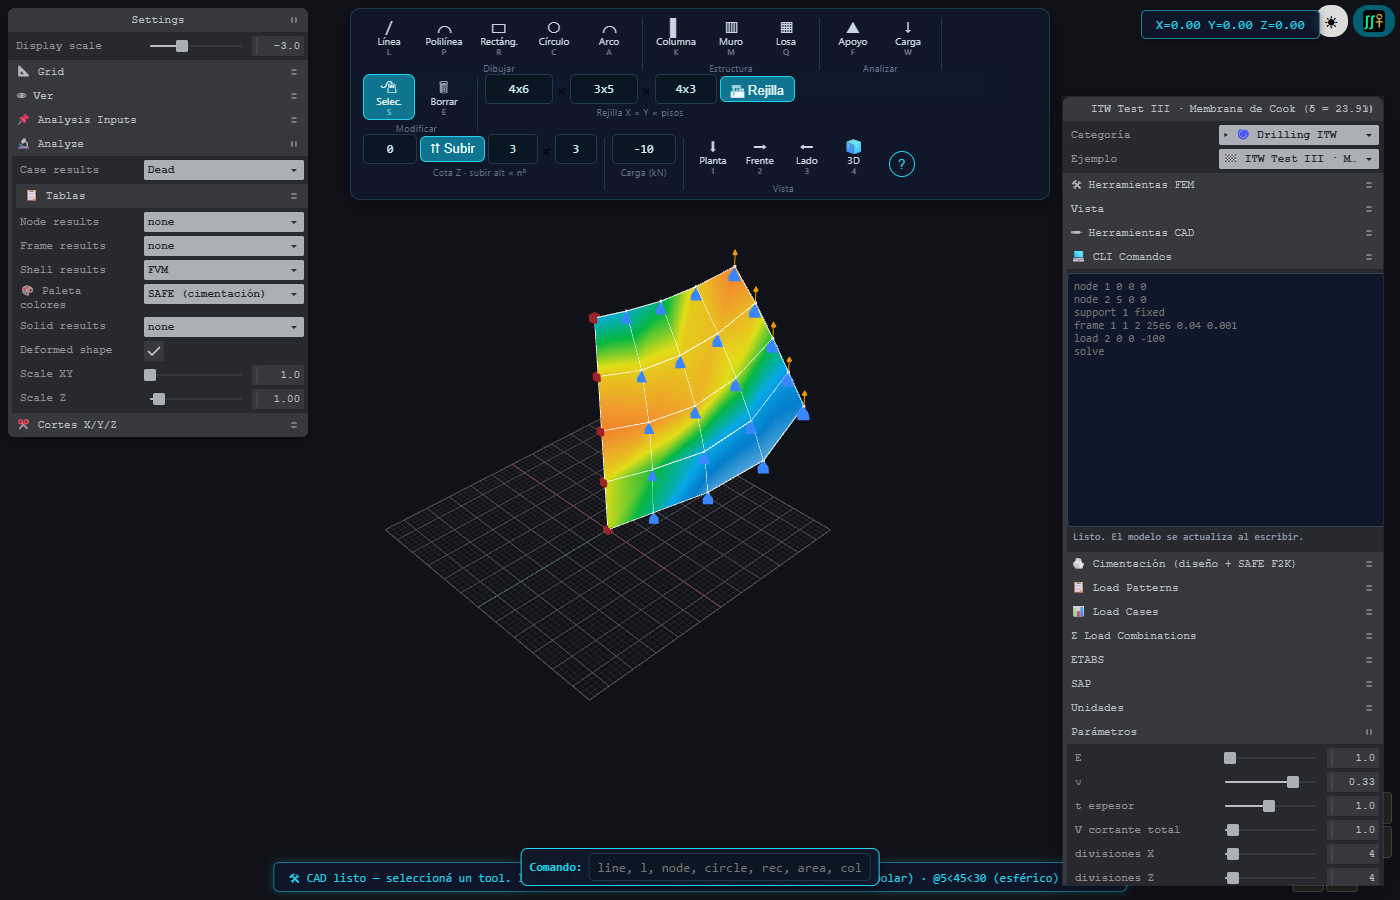
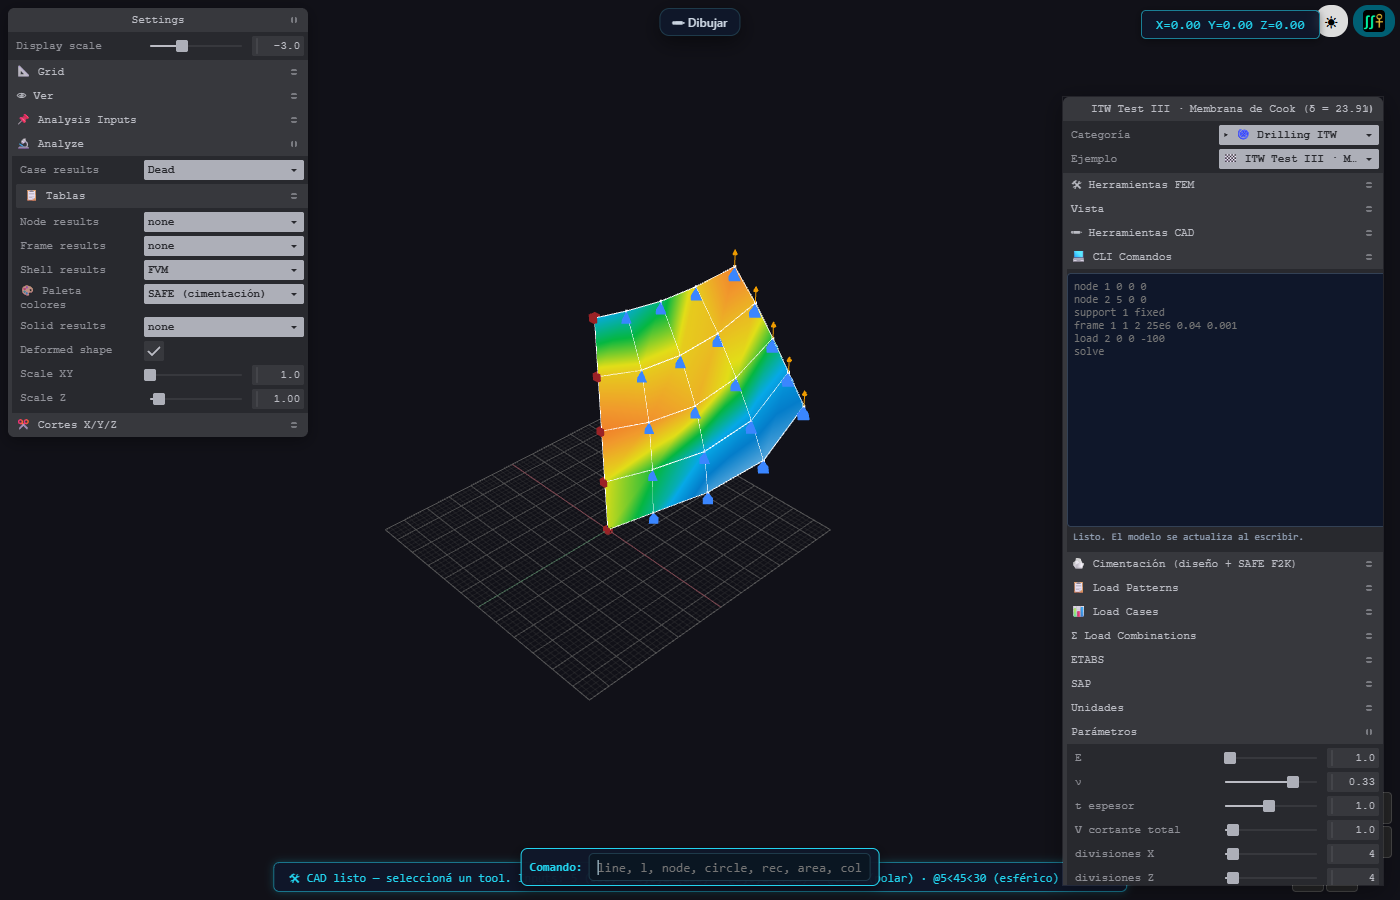
UI: el ribbon se pliega a un boton, y en ejemplos arranca plegado
Jorge: *"ese menu que esta arriba debe tener algo para minimizarlo y solo quede
un boton ya que me ocupa la pantalla, y en ejemplos preferible que quede
minimizado"*.

La barra ocupa dos filas y se come el tercio de arriba del lienzo. Esta bien
cuando se viene a DIBUJAR —es lo unico de la pantalla que dice que hacer— y
estorba cuando se viene a MIRAR un ejemplo resuelto, que es casi todo el
catalogo.

* Boton "▴" para plegar; plegada queda solo "✏ Dibujar" en el mismo sitio, asi
  que abrir y cerrar no mueve nada de lo que hay debajo.
* `Ctrl+\`` en los dos sentidos.
* El estado se recuerda en localStorage: el defecto lo pone el workspace, pero
  si el usuario ya eligio, MANDA EL.
* Defecto: PLEGADA si se entra por `?t=<ejemplo>`, ABIERTA en el lienzo en
  blanco (`new-blank`, `cad-draw`, `cad-editor`, `inicio`).

Y de paso: la guia "Como dibujar aqui" ya NO se abre sola con la barra plegada.
Es una tarjeta grande que tapaba el lienzo entero y con la barra plegada ni se
veia a que se referia — eso ya hizo dar por roto un ejemplo que estaba perfecto
(`guerra-ej1`: el PNG salia vacio y era la guia tapando el visor).

## Los 6 casos ITW, juntos en el selector

Jorge: *"solo estan 2 ejemplos y son 5"*. El arbol los parte en dos porque lo
manda el TIPO DE ELEMENTO —los 4 tests son membrana pura (Shells) y los 2 muros
llevan viga (Mixtos)— y las dos hojas se llaman igual, asi que el desplegable
truncaba el texto y entrando por una parecia que faltaban cuatro.
[…]

diff --git a/hekatan-ui/src/cad/getCadRibbon.ts b/hekatan-ui/src/cad/getCadRibbon.ts
@@ -45,6 +45,18 @@ export interface RibbonHooks {
   finish?: () => void;
   undo?: () => void;
   clear?: () => void;
+  /**
+   * Si la barra arranca PLEGADA (solo el botón «✏ Dibujar»).
+   *
+   * El workspace lo pone a `true` cuando lo cargado es un ejemplo ya resuelto:
+   * ahí se viene a MIRAR, y la barra —que ocupa dos filas— se come el tercio de
+   * arriba del lienzo. En el lienzo en blanco va a `false`, porque ahí es lo
+   * único de la pantalla que dice qué hacer.
+   *
+   * ⚠ Es solo el DEFECTO. Si el usuario ya plegó o desplegó alguna vez, manda
+   * su elección (guardada en `localStorage`).
+   */
+  plegadoPorDefecto?: boolean;
 }
 
 interface Herr {
@@ -517,6 +529,70 @@ export function addCadRibbon(host: HTMLElement, hooks: RibbonHooks): HTMLElement
   ].join(";") + ";";
   estado.textContent = "Teclea una letra o elige arriba — L línea · P polilínea · R rectángulo · K columna · G rejilla";
 
+  // ── PLEGAR el ribbon ──────────────────────────────────────────────────────
+  //
+  // Jorge: *"ese menu que esta arriba debe tener algo para minimizarlo y solo
+  // quede un boton ya que me ocupa la pantalla, y en ejemplos preferible que
+  // quede minimizado"*.
+  //
+  // La barra ocupa dos filas y se come el tercio de arriba del lienzo. Eso está
+  // bien cuando se viene a DIBUJAR —es lo único de la pantalla que dice qué
+  // hacer— y estorba cuando se viene a MIRAR un ejemplo ya resuelto, que es el
+  // caso de casi todo el catálogo.
+  //
+  // Así que: se pliega a un solo botón, y el estado se recuerda. El defecto lo
+  // decide `plegadoPorDefecto`, que el workspace pone a `true` cuando lo que se
+  // ha cargado es un ejemplo (ver `addCadRibbon(..., { plegadoPorDefecto })`).
+  const LS = "hekatan.ribbon.plegado";
+  const bPlegar = document.createElement("button");
+  bPlegar.type = "button";
+  bPlegar.title = "Plegar la barra (Ctrl+`)";
+  bPlegar.textContent = "▴";
+  bPlegar.style.cssText = "width:26px;height:26px;margin-left:4px;cursor:pointer;" +
+    "background:transparent;border:1px solid #475569;border-radius:6px;color:#94a3b8;" +
+    "font:600 13px inherit;align-self:center;";
+  barra.appendChild(bPlegar);
+
+  // El botón que queda cuando está plegada. Va en el MISMO sitio que la barra,
+  // para que abrir y cerrar no mueva nada de lo que hay debajo.
+  const bAbrir = document.createElement("button");
+  bAbrir.type = "button";
+  bAbrir.id = "hk-ribbon-abrir";
+  bAbrir.title = "Abrir la barra de dibujo (Ctrl+`)";
+  bAbrir.textContent = "✏ Dibujar";
+  bAbrir.style.cssText = [
+    "position:absolute", "top:8px", "left:50%", "transform:translateX(-50%)",
+    "z-index:60", "display:none", "cursor:pointer",
+    "padding:5px 12px", "border-radius:10px",
+    "background:rgba(15,23,42,.94)", "border:1px solid #1e3a4a",
+    "color:#cbd5e1", "font:600 12px system-ui,-apple-system,Segoe UI,sans-serif",
+    "box-shadow:0 6px 20px rgba(0,0,0,.45)", "backdrop-filter:blur(6px)",
+  ].join(";") + ";";
+
+  let plegado = false;
+  function plegar(v: boolean, recordar = true) {
+    plegado = v;
+    barra.style.display = v ? "none" : "flex";
+    bAbrir.style.display = v ? "block" : "none";
+    // La barra de estado y la guía sólo tienen sentido con la barra abierta:
+    // plegado no hay herramienta a la vista a la que se refieran.
+    estado.style.display = v ? "none" : "block";
+    if (v) verGuia(false);
+    if (recordar) { try { localStorage.setItem(LS, v ? "1" : "0"); } catch {} }
+  }
+  bPlegar.addEventListener("click", () => plegar(true));
+  bAbrir.addEventListener("click", () => plegar(false));
+  // Ctrl+` — el mismo atajo en los dos sentidos, que es como se espera de un
+  // panel que se pliega.
+  window.addEventListener("keydown", (e) => {
+    if (!e.ctrlKey || e.key !== "`") return;
+    const t = e.target as HTMLElement | null;
+    if (t && /^(INPUT|TEXTAREA)$/.test(t.tagName)) return;
+    e.preventDefault();
+    plegar(!plegado);
+  });
+
+
   // El motor selecciona DESPUES de procesar el clic, asi que se mira un
   // instante mas tarde. 120 ms basta y no se nota.
   host.addEventListener("click", (e) => {
@@ -528,13 +604,30 @@ export function addCadRibbon(host: HTMLElement, hooks: RibbonHooks): HTMLElement
 
   if (getComputedStyle(host).position === "static") host.style.position = "relative";
   host.appendChild(barra);
+  host.appendChild(bAbrir);
   host.appendChild(estado);
   host.appendChild(guia);
+
+  // El defecto lo manda quien monta (el workspace: plegada en ejemplos, abierta
+  // en el lienzo en blanco). Si el usuario ya eligió alguna vez, MANDA ÉL.
+  let inicial = hooks.plegadoPorDefecto ?? false;
+  try {
+    const g = localStorage.getItem(LS);
+    if (g !== null) inicial = g === "1";
+  } catch {}
+  plegar(inicial, false);
   // Se abre sola la PRIMERA vez y nunca mas: quien entra por primera vez no
   // sabe ni que existe la tecla ?, y quien ya la leyo no quiere volver a
   // cerrarla en cada carga.
+  //
+  // ⚠ Pero NO si la barra arranca plegada. La guia es una tarjeta grande que
+  // tapa el lienzo entero, y con la barra plegada ni siquiera se ve a que se
+  // refiere: se entra a mirar un ejemplo ya resuelto y lo primero que aparece
+  // es un panel de como dibujar, encima del modelo. Eso ya hizo dar por roto un
+  // ejemplo que estaba perfecto (`guerra-ej1`: el PNG salia vacio y era la guia
+  // tapando el visor).
   try {
-    if (!localStorage.getItem("hk_guia_vista")) {
+    if (!plegado && !localStorage.getItem("hk_guia_vista")) {
       verGuia(true);
       localStorage.setItem("hk_guia_vista", "1");
     }

diff --git a/examples/src/workspace/main.ts b/examples/src/workspace/main.ts
@@ -3011,6 +3011,13 @@ function buildParamsPane() {
   ];
   const ALL = "Todas";
   const ALL_BENCHMARKS = "🏁 Benchmarks · TODOS";   // pseudo-categoría que muestra los 12 benchmarks juntos
+  // Lo mismo para la familia ITW. Los seis casos del elemento con drilling son
+  // UNA cosa para quien los estudia, pero el árbol los parte en dos porque lo
+  // manda el TIPO DE ELEMENTO: los cuatro tests son membrana pura (Shells) y
+  // los dos muros llevan viga (Mixtos). Las dos hojas se llaman igual y el
+  // desplegable trunca el texto, así que entrando por una parecía que faltaban
+  // cuatro ejemplos. Esta pseudo-categoría los junta sin romper el árbol.
+  const ALL_ITW = "🌀 Drilling ITW · TODOS";
   // Mostrar las sub-categorías de Benchmarks con INDENTACIÓN visual (sub-folders):
   //   🏁 Benchmarks (TODOS)         ← header del grupo (todos los benchmarks juntos)
   //     ▸ 1⃣ Frames                 ← sub-folder
@@ -3053,6 +3060,8 @@ function buildParamsPane() {
   // Los benchmarks ya no son un cajón del árbol (están repartidos por tipo de
   // elemento), pero siguen siendo un filtro útil: se listan por su FLAG.
   catOptions[`🏁 Benchmarks (todos: ${examplesRegistry.filter((e) => e.benchmark).length})`] = ALL_BENCHMARKS;
+  const nITW = examplesRegistry.filter((e) => e.category?.includes("🌀 Drilling ITW")).length;
+  if (nITW) catOptions[`🌀 Drilling ITW (todos: ${nITW})`] = ALL_ITW;
 
   const selectorObj = { category: currentExample.category, id: currentExample.id };
 
@@ -3094,6 +3103,7 @@ function buildParamsPane() {
           if (cat === ALL_BENCHMARKS || cat === "🏁 Benchmarks (TODOS los 12)") {
             return e.category?.startsWith("🏁 Benchmarks");
           }
+          if (cat === ALL_ITW) return !!e.category?.includes("🌀 Drilling ITW");
           return matchesCategory(e.category, cat);
         })
         .map((e) => [`${e.benchmark ? "🏁 " : ""}${e.name}`, e.id])
@@ -3435,7 +3445,15 @@ function buildParamsPane() {
     if (new URLSearchParams(location.search).get("ribbon") !== "0"
         && !document.getElementById("hk-ribbon")) {
       const host = (viewerElm.parentElement ?? viewerElm) as HTMLElement;
+      // Plegada por defecto SI se entra a un ejemplo (`?t=<id>`), abierta si se
+      // entra al lienzo en blanco. En un ejemplo ya resuelto se viene a mirar y
+      // la barra tapa el modelo; en blanco es lo único que dice qué hacer.
+      // El usuario manda por encima de esto: su elección se recuerda.
+      const _t = new URLSearchParams(location.search).get("t");
+      const enBlanco = !_t || _t === "new-blank" || _t === "cad-draw"
+                    || _t === "cad-editor" || _t === "inicio";
       addCadRibbon(host, {
+        plegadoPorDefecto: !enBlanco,
         setTool: (t) => {
           try { (window as any).__hekatanCadState?.setTool?.(t); } catch {}
           try { (window as any).__hekatanCadResetPending?.(); } catch {}
